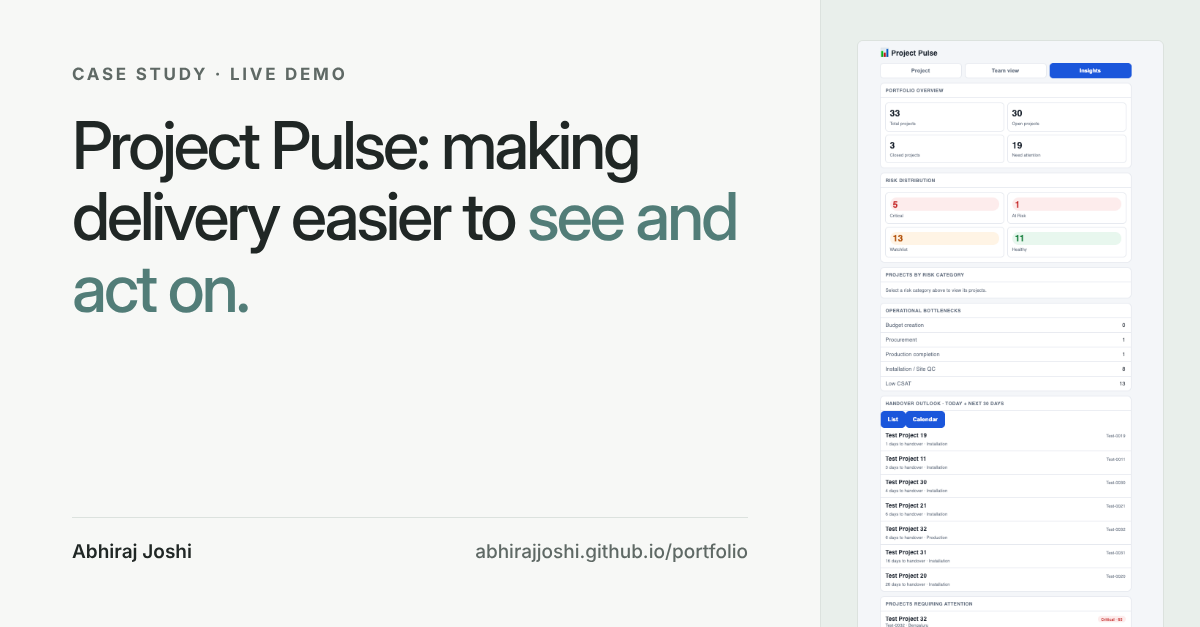
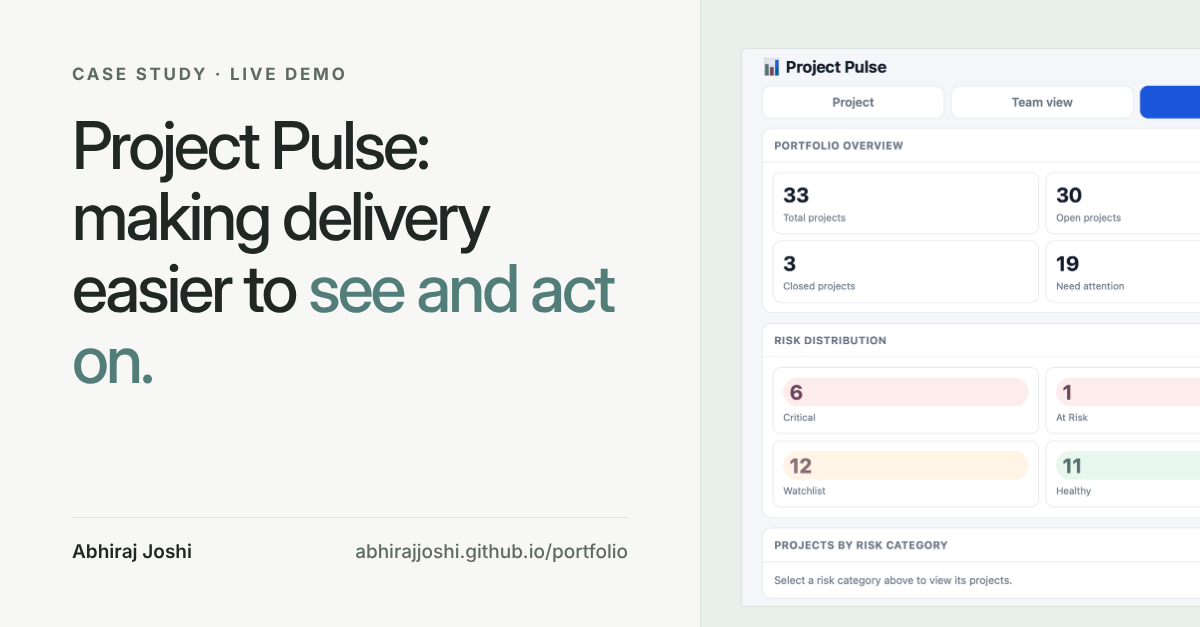
Use new Project Pulse screenshots with realistic project names
Claude-Session: https://claude.ai/code/session_01EVMWHhxZ2VQPUkXsBjQUm6

diff --git a/project-pulse.html b/project-pulse.html
@@ -253,7 +253,7 @@ section {
 
 .shots {
   display:grid;
-  grid-template-columns:minmax(0,417px) minmax(0,1fr);
+  grid-template-columns:1fr 1fr;
   gap:28px;
   align-items:start;
   margin-top:34px;
@@ -354,7 +354,6 @@ figure {margin:0}
   }
 
   .shots {grid-template-columns:1fr}
-  .shots figure:first-child {max-width:417px}
 
 }
 </style>
@@ -540,24 +539,26 @@ figure {margin:0}
     <figure>
       <img
         class="screenshot"
-        src="assets/project-pulse-insights.png"
-        width="417" height="934"
-        alt="Project Pulse Insights dashboard showing portfolio overview, risk distribution, bottlenecks and handover outlook"
+        src="assets/project-pulse-overview.png"
+        width="1200" height="1117"
+        alt="Project Pulse Insights view showing portfolio overview and risk distribution"
         loading="lazy">
-      <figcaption class="caption">Portfolio Insights: overview, risk, bottlenecks and upcoming handovers. All records are synthetic.</figcaption>
+      <figcaption class="caption">Portfolio overview and risk distribution. Each risk card filters the project list.</figcaption>
     </figure>
 
     <figure>
       <img
         class="screenshot"
-        src="assets/project-pulse-calendar.png"
-        width="739" height="680"
-        alt="Project Pulse handover calendar showing dates and projects due"
+        src="assets/project-pulse-handover.png"
+        width="1200" height="1183"
+        alt="Project Pulse operational bottlenecks and handover outlook for the next 30 days"
         loading="lazy">
-      <figcaption class="caption">Handover calendar. Pick a date to see which projects are due.</figcaption>
+      <figcaption class="caption">Bottlenecks and the 30-day handover outlook, as a list or a calendar.</figcaption>
     </figure>
 
   </div>
+
+  <p class="caption">All records are synthetic.</p>
 
   <div class="disclosure">
     The enhanced prototype is a standalone demo. It isn't connected to any company system and every record in it is made up.

diff --git a/index.html b/index.html
@@ -453,7 +453,7 @@ h3 {
     <article class="project">
       <a href="project-pulse.html" aria-label="Project Pulse case study">
         <div class="art art-shot">
-          <img src="assets/project-pulse-insights.png" alt="Project Pulse dashboard showing project counts, risk categories and upcoming handovers">
+          <img src="assets/project-pulse-overview.png" alt="Project Pulse Insights view showing portfolio overview and risk distribution">
         </div>
       </a>
 
